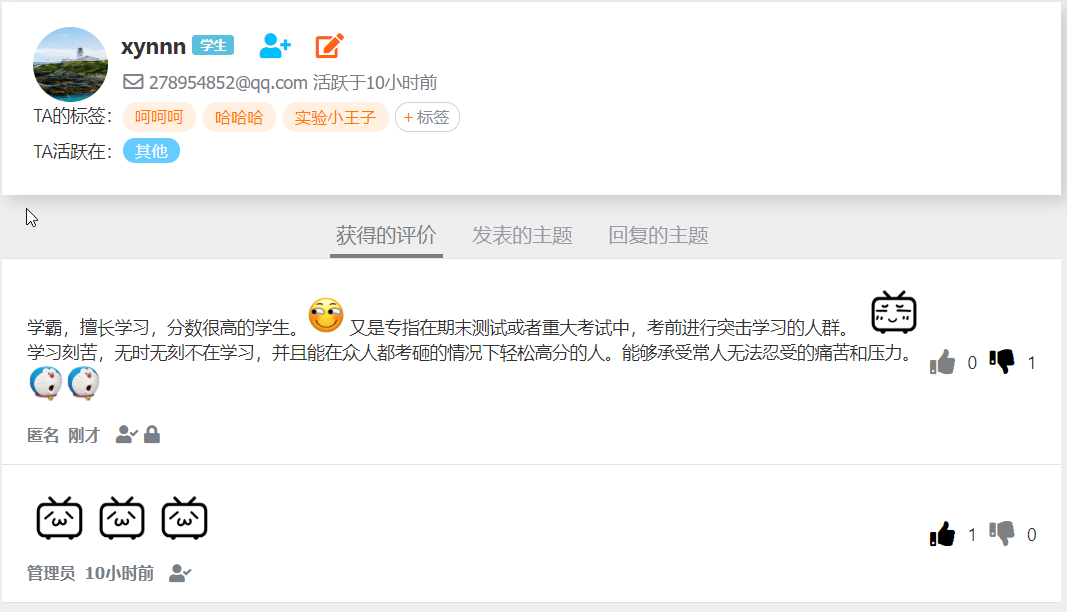
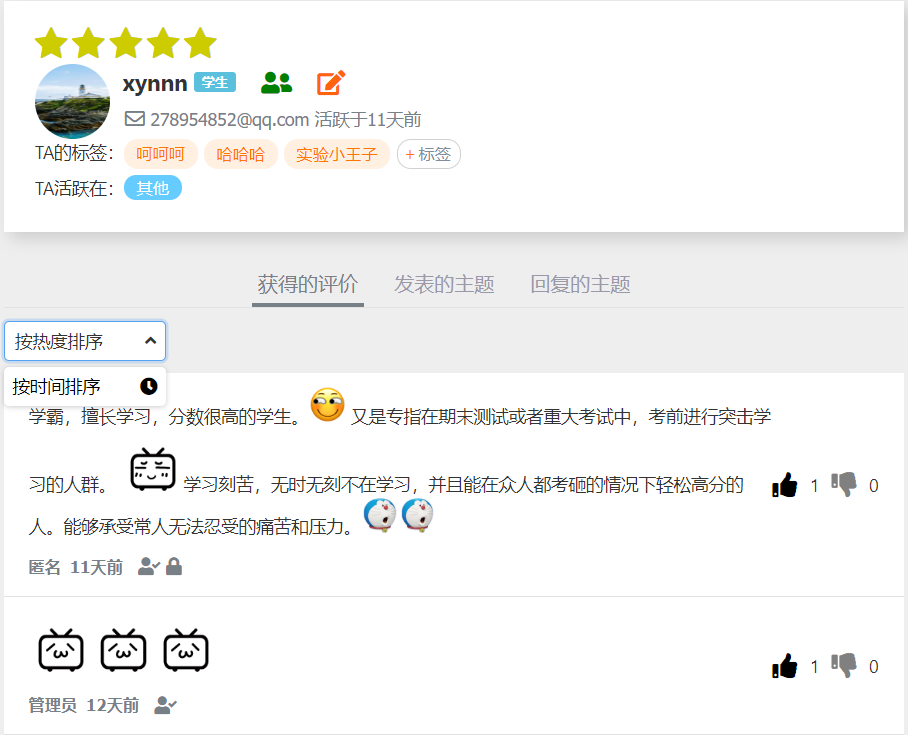
6.22 add responsive rating/chart experience

diff --git a/templates/utils/assess_person.html b/templates/utils/assess_person.html
@@ -100,8 +100,8 @@
     <div class="star-dialog-title">星级评分</div>
     <div style="display: flex;align-items: flex-end">
         <div class="star-dialog-label">TA的评分：</div>
-        <div class="star-div star-dialog-div"></div>
-        <span class="star-dialog-value star-dialog-label">{{ average_star }}</span>
+        <div class="star-div star-dialog-div star-readonly"></div>
+        <span class="star-dialog-value star-dialog-label star-readonly-label">{{ average_star|floatformat:1 }}</span>
     </div>
     <canvas id="myChart"></canvas>
     <div style="display: flex;align-items: flex-end">
@@ -177,15 +177,6 @@
 
 </div>
 <script>
-
-    function getRandomColor() {
-        var letters = '0123456789ABCDEF'.split('');
-        var color = '#';
-        for (var i = 0; i < 6; i++) {
-            color += letters[Math.floor(Math.random() * 16)];
-        }
-        return color;
-    }
 
 
     var editor = easyEditor('easyEditor');
@@ -289,6 +280,64 @@
 </script>
 <script>
     load_protobuf();
+    var current_star_array ={{ star_count_list|safe }};
+    var previous_star = {{ previous_star|safe }};
+    var average_star = {{ average_star|safe }};
+    var chart;
+
+
+    function create_chart(data_list) {
+        var ctx = document.getElementById('myChart').getContext('2d');
+        chart = new Chart(ctx, {
+            // The type of chart we want to create
+            type: 'pie',
+
+            // The data for our dataset
+            data: {
+                labels: ["1", "2", "3", "4", "5"],
+                datasets: [{
+                    backgroundColor: [
+                        'rgba(54, 162, 235, 0.8)',
+                        'rgba(255, 206, 86, 0.8)',
+                        'rgba(75, 192, 192, 0.8)',
+                        'rgba(153, 102, 255, 0.8)',
+                        'rgba(255, 159, 64, 0.8)'
+                    ],
+                    data: data_list
+                }]
+            },
+
+            // Configuration options go here
+            options: {
+                responsive: true,
+                pieceLabel: {
+                    render: 'percentage',
+                    fontColor: 'white',
+                    precision: 2
+                },
+                tooltips: {
+                    callbacks: {
+                        label: function (tooltipItem, data) {
+                            var count = data.datasets[0].data[tooltipItem.index];
+                            var value=tooltipItem.index+1
+                            return count+"人为他打了"+value+"星";
+                        }
+                    }
+                }
+            }
+        });
+    }
+
+    function return_previous_status() {
+        var star_readonly = $(".star-readonly");
+        star_readonly.raty('readOnly', false);
+        star_readonly.raty('score', average_star);
+        star_readonly.raty('readOnly', true);
+        $(".star-readonly-label").html(average_star);
+        $(".star-clickable").raty('score', previous_star);
+        $("#current-star").html(previous_star);
+
+    }
 
     function load_protobuf() {
         protobuf.load("{% static "notification_message.proto" %}", function (err, root) {
@@ -304,59 +353,53 @@
                     precision: true,
                     readOnly: true,
                     hints: ['骄傲', '无比骄傲', '骄傲突破天际', '骄傲冲出地球', '龙傲天'],
-                    score: {{ average_star|safe }}
+                    score: average_star
 
                 });
+
                 $("#display-star-div").click(function () {
                     if (!$(".star-change-dialog").is(":visible")) {
                         $(".star-change-dialog").show();
-                        var ctx = document.getElementById('myChart').getContext('2d');
+                        create_chart(current_star_array);
 
-                        var chart = new Chart(ctx, {
-                            // The type of chart we want to create
-                            type: 'pie',
-
-                            // The data for our dataset
-                            data: {
-                                labels: ["1", "2", "3", "4", "5"],
-                                datasets: [{
-                                    backgroundColor: [
-                                        getRandomColor(),
-                                        getRandomColor(),
-                                        getRandomColor(),
-                                        getRandomColor(),
-                                        getRandomColor()
-                                    ],
-                                    data: {{ star_count_list|safe }}
-                                }]
-                            },
-
-                            // Configuration options go here
-                            options: {
-                                responsive: true,
-                                pieceLabel: {
-                                    render: 'percentage',
-                                    fontColor: 'white',
-                                    precision: 2
-                                }
-                            }
-                        });
                     }
 
                 });
                 $(".star-clickable").raty({
-                    starType: 'i',
-                    score: {{ previous_star|safe }},
-                    hints: ['骄傲', '无比骄傲', '骄傲突破天际', '骄傲冲出地球', '龙傲天'],
-                    click: function (score) {
-                        $("#current-star").html(score);
+                        starType: 'i',
+                        score: previous_star,
+                        hints: ['骄傲', '无比骄傲', '骄傲突破天际', '骄傲冲出地球', '龙傲天'],
+                        click: function (score) {
+                            $("#current-star").html(score);
+                            var changed_array = current_star_array.slice();
+                            if (previous_star !== 0) //have voted must change
+                                changed_array[previous_star - 1] -= 1;
+                            changed_array[score - 1] += 1;
+                            chart.destroy();
+                            create_chart(changed_array);
+                            var new_score = 0;
+                            var sum = 0;
+                            var count = 0;
+                            for (var i = 0; i < changed_array.length; i++) {
+                                sum += (i + 1) * changed_array[i];
+                                count += changed_array[i];
+                            }
 
+                            if (count !== 0) new_score = (sum / count).toFixed(1);
+                            var star_readonly = $(".star-readonly");
+                            star_readonly.raty('readOnly', false);
+                            star_readonly.raty('score', new_score);
+                            star_readonly.raty('readOnly', true);
+                            $(".star-readonly-label").html(new_score);
+
+
+                        }
                     }
-                });
+                )
+                ;
                 $(".star-dialog-save").click(function (e) {
                         var current_star = $(".star-clickable").raty('score');
-                        var previous_star ={{ previous_star|safe }};
-                        if (current_star == previous_star)
+                        if (current_star === previous_star)
                             alert("你并没有修改你的评分，请重试");
                         else {
                             var payload = {
@@ -374,6 +417,7 @@
                 );
                 $(".star-dialog-close").click(function () {
                     $(".star-change-dialog").hide();
+                    return_previous_status();
                 });
                 $(document).mouseup(function (e) {
                     var container = $(".tag-hidden-popularity");

diff --git a/README.md b/README.md
@@ -14,13 +14,15 @@
 
 <!-- /TOC -->
 # ProCampus
-A forum featuring realtime chat, in combination of Django, WebSocket, Redis, Protobuf and more.
+A forum featuring realtime chat, comments and rating in combination of Django, WebSocket, Redis, Protobuf and more, compatible on mobile devices as well.
 
 ![Demo1](/screenshots/demo1.png "Demo1")
 
 ![Demo2](/screenshots/demo2.png "Demo2")
 
 ![Demo3](/screenshots/demo3.png "Demo3")
+
+![Mobile Demo](/screenshots/mobile_demo.png "Mobile Demo")
 
 ## 1.1. Feature
 - Based on Django 2.0
